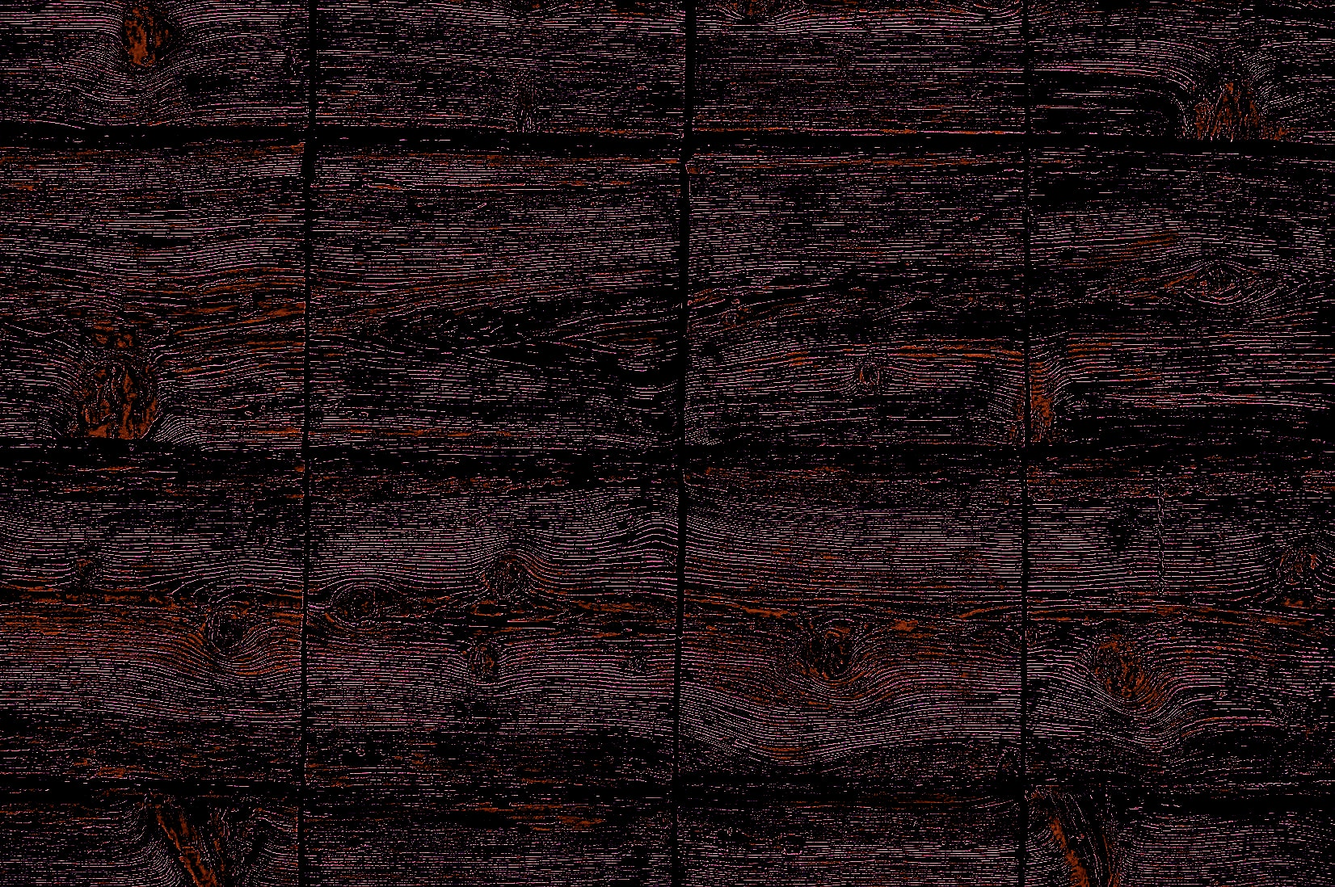
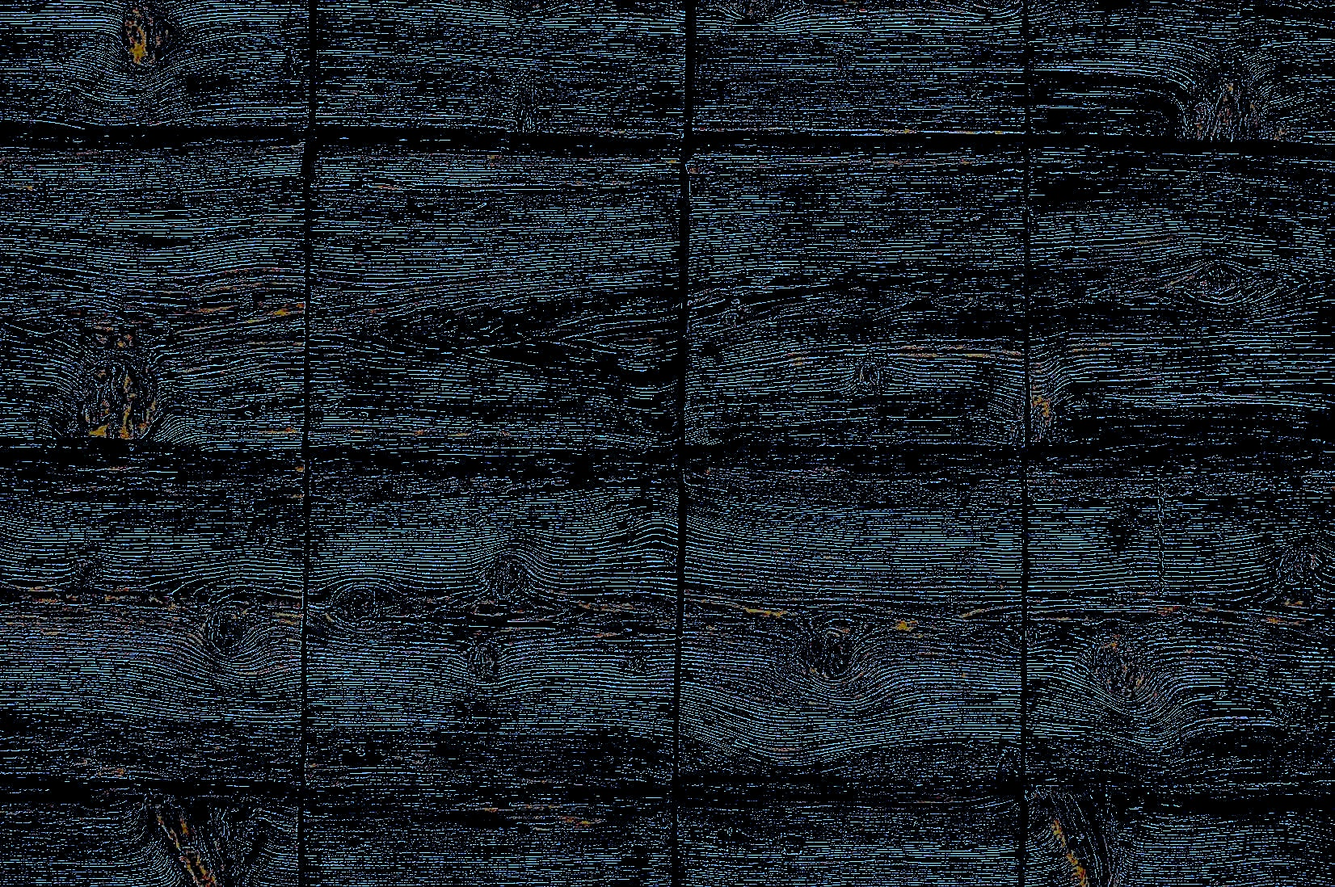
changed graphics, fonts, format, and design significantly

Changed region(s): [[0.0, 0.0, 1.0, 1.0]]

diff --git a/app/assets/stylesheets/application.css b/app/assets/stylesheets/application.css
@@ -16,8 +16,7 @@
 
 /* NAVIGATION */
 nav {
-  background: #5D052B;
-  background-image: url(wood.jpeg);
+  background: #317E94;
   background-size: 840px 190px;
   height: 50px;
 }
@@ -25,22 +24,27 @@ nav {
 nav a {
     text-decoration: none;
     padding: 4px 30px;
-    font-size: 28px;
+    font-size: 24px;
+    font-family: sans-serif;
+    font-weight: bold;
     float: left;
  }
 
 h1 {
   color: #A8C4C9;
+  font-family: sans-serif;
 }
 
 h4 {
   color: #A2BCD0;
+  font-family: sans-serif;
 }
 
- body {
-      background: black;
-      color: #0E5A8E;
-    }
+body {
+    background: black;
+    color: #66B3CA;
+    font-family: sans-serif;
+}
 
 .button, input[type="submit" i]{
   color: #fff;
@@ -51,10 +55,10 @@ h4 {
 }
 
 a:link {
-  color: #4395AF;
+  color: #DDEEF3;
 }
 a:visited {
-  color: #ACC7DA;
+  color: #DDEEF3;
 }
 a:hover {
   color: #AB9418;
@@ -65,15 +69,50 @@ form input[type='text'] {
   height: 20px;
 }
 
+.renecades {
+  font-size: 44px;
+  font-family: sans-serif;
+  color: #87DAF2;
+  padding: 4px 40px;
+  font-weight: bold;
+}
+
+.graphic {
+  position: relative;
+  left: 100px;
+}
+
+.slogans {
+  float: left;
+  font-family: sans-serif;
+  font-size: 24px;
+  padding: 10px 40px;
+  font-weight: bold;
+  color: #E1F1F3;
+}
+
+.home-links {
+  float: left;
+  font-family: sans-serif;
+  font-size: 18px;
+}
+
+.rank {
+  color: #DDEEF3;
+  font-size: 20px;
+}
+
 .style_image {
   position: relative;
-  bottom: 300px;
-  left: 400px;
+  bottom: 360px;
+  left: 600px;
   width: 550px;
   height: 400px;
 }
 
 .footer{
+  position: relative;
+  bottom: -100px;
   height: 100px;
   background-image: url(navimage.png);
   background-size: 840px 190px
